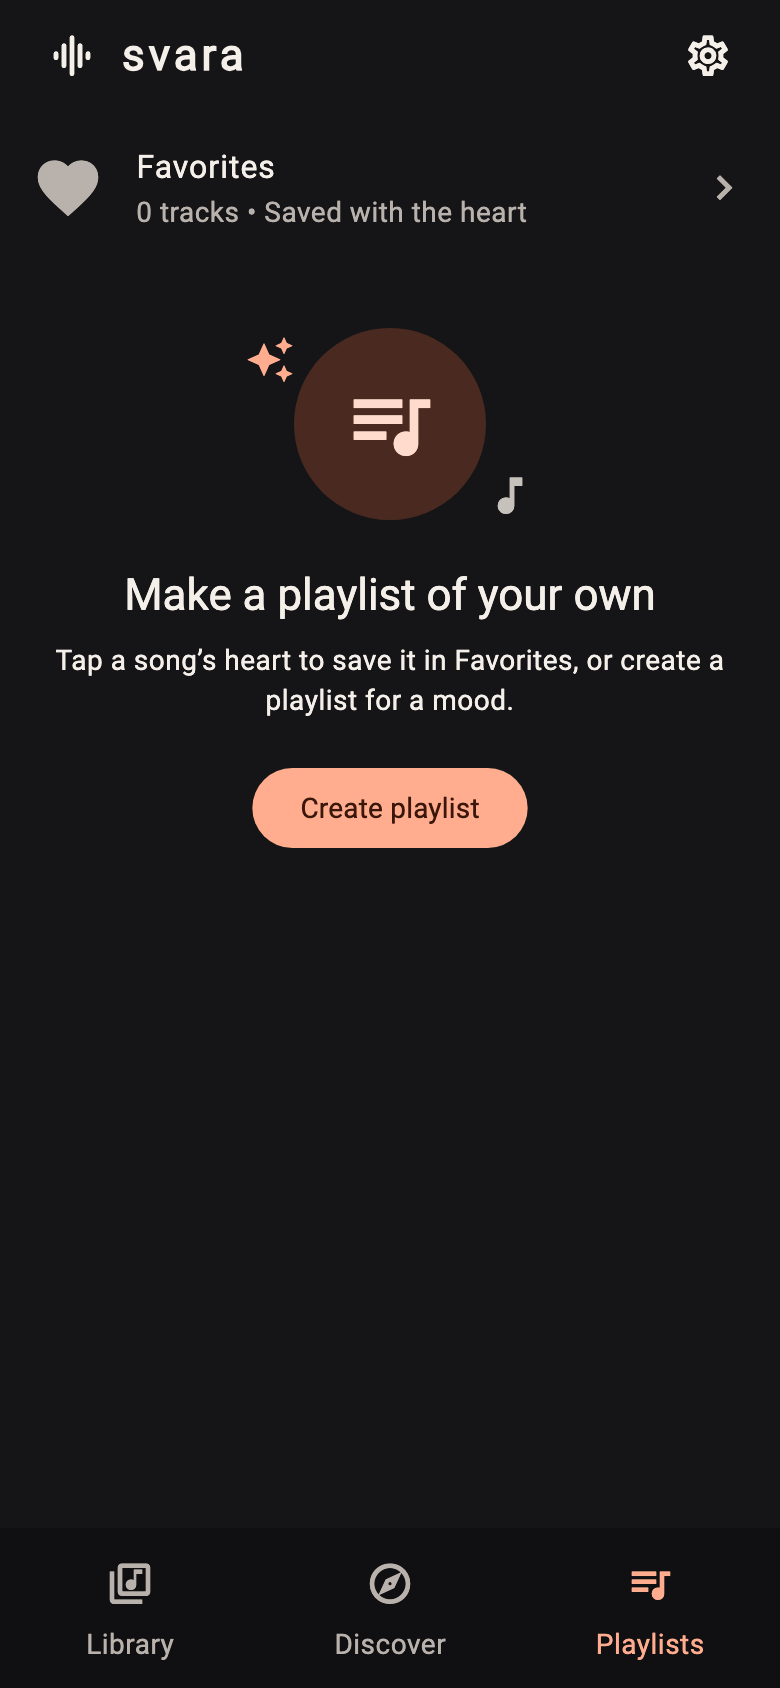
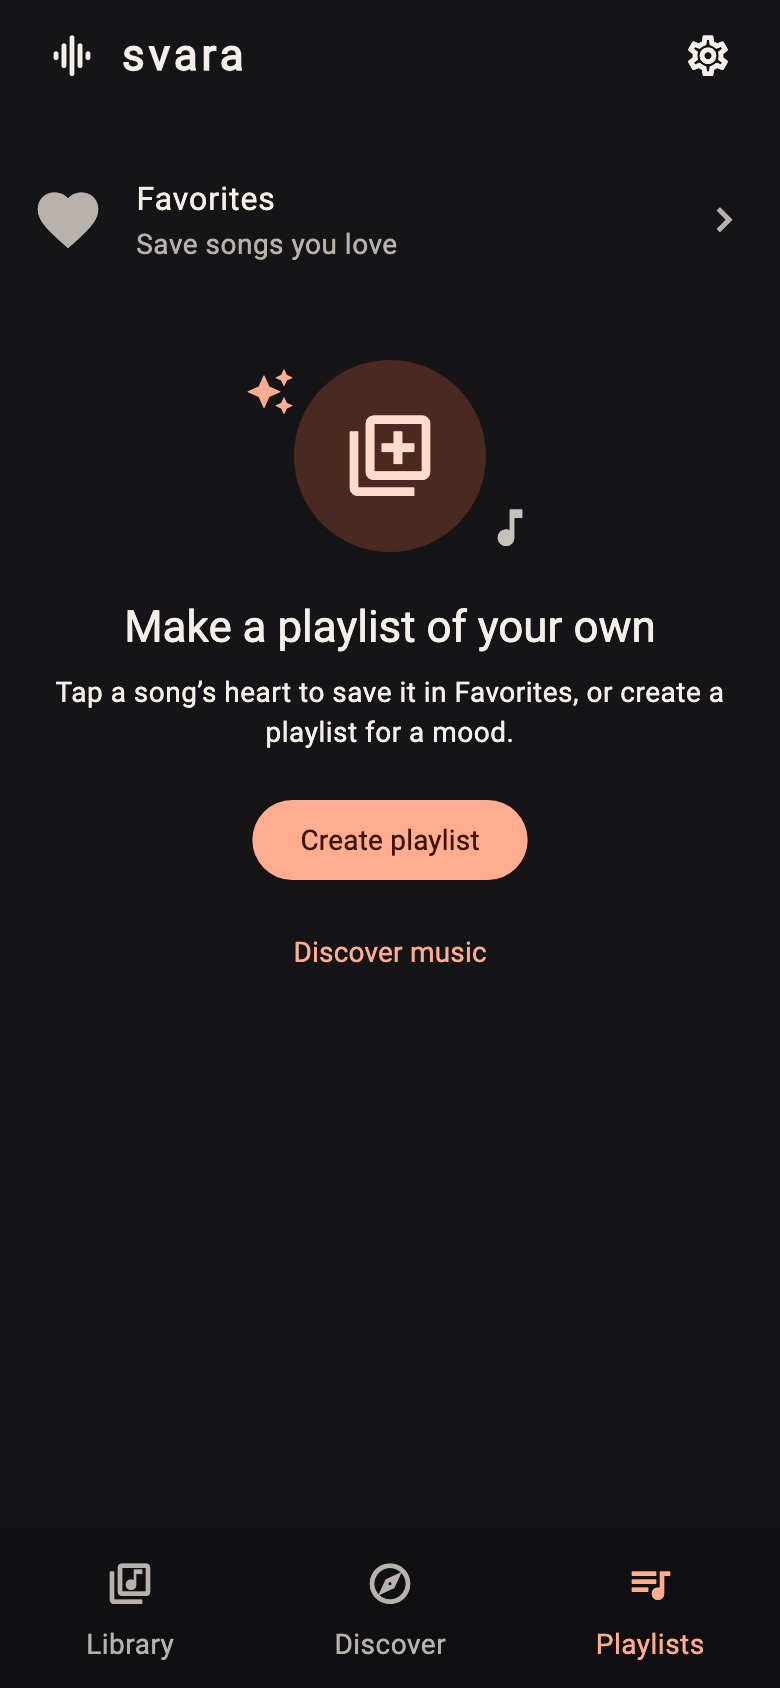
refactor(playlists): enhance empty state with secondary navigation actions
- Add optional secondary action to MusicEmptyState widget
- Update Favorites subtitle to "Save songs you love" when empty
- Add "Discover music" or "Browse songs" CTA to empty playlists view
- Wire PlaylistsScreen navigation callbacks for Library and Discover tabs
- Update tests to verify secondary action behavior and text changes

diff --git a/lib/features/playlists/playlists_screen.dart b/lib/features/playlists/playlists_screen.dart
@@ -100,8 +100,8 @@ Future<void> addToPlaylist(
 }
 
 class PlaylistsScreen extends ConsumerStatefulWidget {
-  const PlaylistsScreen({this.onLibrary, super.key});
-  final VoidCallback? onLibrary;
+  const PlaylistsScreen({this.onLibrary, this.onDiscover, super.key});
+  final VoidCallback? onLibrary, onDiscover;
   @override
   ConsumerState<PlaylistsScreen> createState() => _PlaylistsScreenState();
 }
@@ -132,6 +132,8 @@ class _PlaylistsScreenState extends ConsumerState<PlaylistsScreen> {
     return RefreshIndicator(
       onRefresh: load,
       child: ListView(
+        physics: const AlwaysScrollableScrollPhysics(),
+        padding: const EdgeInsets.only(top: 16, bottom: 24),
         children: [
           if (!playlists.isLoading && !playlists.hasError && lists.isNotEmpty)
             Padding(
@@ -158,8 +160,9 @@ class _PlaylistsScreenState extends ConsumerState<PlaylistsScreen> {
               ref
                   .watch(favoriteTracksProvider)
                   .when(
-                    data: (tracks) =>
-                        '${tracks.length} ${tracks.length == 1 ? 'track' : 'tracks'} • Saved with the heart',
+                    data: (tracks) => tracks.isEmpty
+                        ? 'Save songs you love'
+                        : '${tracks.length} saved ${tracks.length == 1 ? 'song' : 'songs'}',
                     loading: () => 'Loading favorites…',
                     error: (_, _) => 'Could not load favorites. Pull to retry.',
                   ),
@@ -188,7 +191,13 @@ class _PlaylistsScreenState extends ConsumerState<PlaylistsScreen> {
               message: 'Tap a song’s heart to save it in Favorites, or create a playlist for a mood.',
               actionLabel: 'Create playlist',
               onAction: createPlaylist,
-              icon: Icons.queue_music,
+              secondaryActionLabel: widget.onDiscover != null
+                  ? 'Discover music'
+                  : widget.onLibrary != null
+                  ? 'Browse songs'
+                  : null,
+              onSecondaryAction: widget.onDiscover ?? widget.onLibrary,
+              icon: Icons.library_add_outlined,
             ),
           ...lists.map(
             (p) => ListTile(

diff --git a/test/playlist_creation_test.dart b/test/playlist_creation_test.dart
@@ -22,6 +22,7 @@ void main() {
         store = await Store.open(path: inMemoryDatabasePath);
       });
       final pending = Completer<List<Playlist>>();
+      var discovered = false;
       try {
         await tester.pumpWidget(
           ProviderScope(
@@ -29,7 +30,11 @@ void main() {
               storeProvider.overrideWithValue(store),
               playlistsProvider.overrideWith((ref) => pending.future),
             ],
-            child: const MaterialApp(home: Scaffold(body: PlaylistsScreen())),
+            child: MaterialApp(
+              home: Scaffold(
+                body: PlaylistsScreen(onDiscover: () => discovered = true),
+              ),
+            ),
           ),
         );
         await tester.pump();
@@ -59,6 +64,18 @@ void main() {
           find.text('Make a playlist of your own'),
           scenario == 'empty' ? findsOneWidget : findsNothing,
         );
+        if (scenario == 'empty') {
+          expect(find.text('Save songs you love'), findsOneWidget);
+          expect(find.text('0 tracks'), findsNothing);
+          await tester.tap(find.text('Discover music'));
+          expect(discovered, isTrue);
+          tester.platformDispatcher.textScaleFactorTestValue = 2;
+          await tester.pumpAndSettle();
+          expect(tester.takeException(), isNull);
+          tester.platformDispatcher.clearTextScaleFactorTestValue();
+        } else {
+          expect(find.text('Discover music'), findsNothing);
+        }
         if (scenario == 'error') {
           expect(find.text('Retry playlists'), findsOneWidget);
         }

diff --git a/lib/core/widgets/music_empty_state.dart b/lib/core/widgets/music_empty_state.dart
@@ -6,12 +6,16 @@ class MusicEmptyState extends StatelessWidget {
     required this.message,
     required this.actionLabel,
     required this.onAction,
+    this.secondaryActionLabel,
+    this.onSecondaryAction,
     this.icon = Icons.music_note_rounded,
     super.key,
   });
 
   final String title, message, actionLabel;
   final VoidCallback onAction;
+  final String? secondaryActionLabel;
+  final VoidCallback? onSecondaryAction;
   final IconData icon;
 
   @override
@@ -66,6 +70,13 @@ class MusicEmptyState extends StatelessWidget {
           Text(message, textAlign: TextAlign.center),
           const SizedBox(height: 20),
           FilledButton(onPressed: onAction, child: Text(actionLabel)),
+          if (secondaryActionLabel != null && onSecondaryAction != null) ...[
+            const SizedBox(height: 8),
+            TextButton(
+              onPressed: onSecondaryAction,
+              child: Text(secondaryActionLabel!),
+            ),
+          ],
         ],
       ),
     );

diff --git a/test/library_interactions_test.dart b/test/library_interactions_test.dart
@@ -321,7 +321,7 @@ void main() {
       );
       await settle(tester);
       expect(find.text('Favorites'), findsOneWidget);
-      expect(find.text('1 track • Saved with the heart'), findsOneWidget);
+      expect(find.text('1 saved song'), findsOneWidget);
       await tester.tap(find.text('Favorites'));
       await settle(tester);
       expect(find.text('First light'), findsOneWidget);
@@ -343,7 +343,7 @@ void main() {
       );
       await tester.tap(find.byType(BackButton));
       await settle(tester);
-      expect(find.text('0 tracks • Saved with the heart'), findsOneWidget);
+      expect(find.text('Save songs you love'), findsOneWidget);
       await tester.tap(find.byType(BackButton));
       await settle(tester);
       expect(find.byTooltip('Favorite'), findsOneWidget);

diff --git a/lib/svara_app.dart b/lib/svara_app.dart
@@ -92,7 +92,10 @@ class _HomeState extends ConsumerState<Home> {
       children: [
         LibraryScreen(onDiscover: () => setState(() => index = 1)),
         const DiscoveryScreen(),
-        PlaylistsScreen(onLibrary: () => setState(() => index = 0)),
+        PlaylistsScreen(
+          onLibrary: () => setState(() => index = 0),
+          onDiscover: () => setState(() => index = 1),
+        ),
       ],
     ),
     bottomNavigationBar: Column(

diff --git a/test/ui_test.dart b/test/ui_test.dart
@@ -282,6 +282,12 @@ void main() {
       );
       await tester.pumpAndSettle();
       await captureThemes('playlists-empty');
+      await tester.tap(find.text('Discover music'));
+      await tester.pumpAndSettle();
+      expect(
+        tester.widget<NavigationBar>(find.byType(NavigationBar)).selectedIndex,
+        1,
+      );
       await tester.tap(
         find.descendant(
           of: find.byType(NavigationBar),
